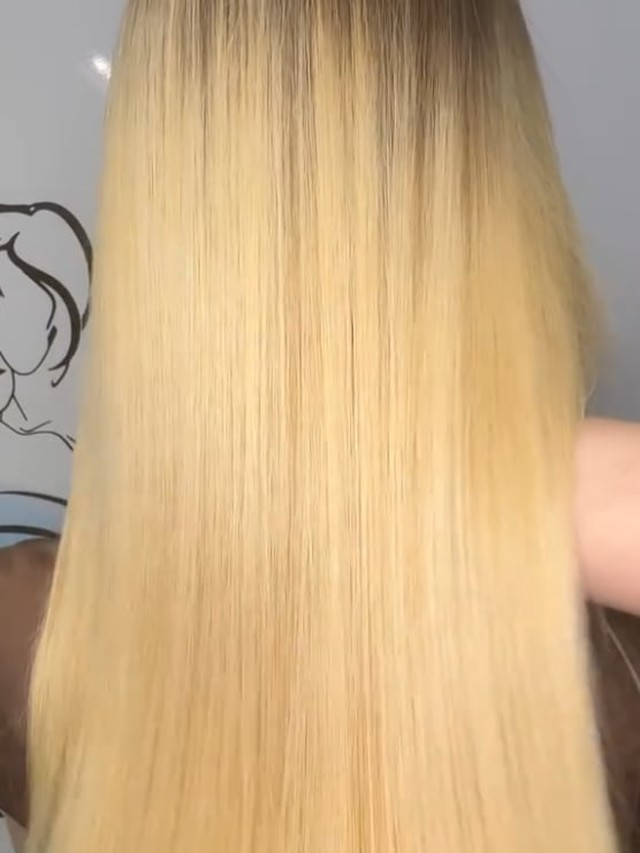
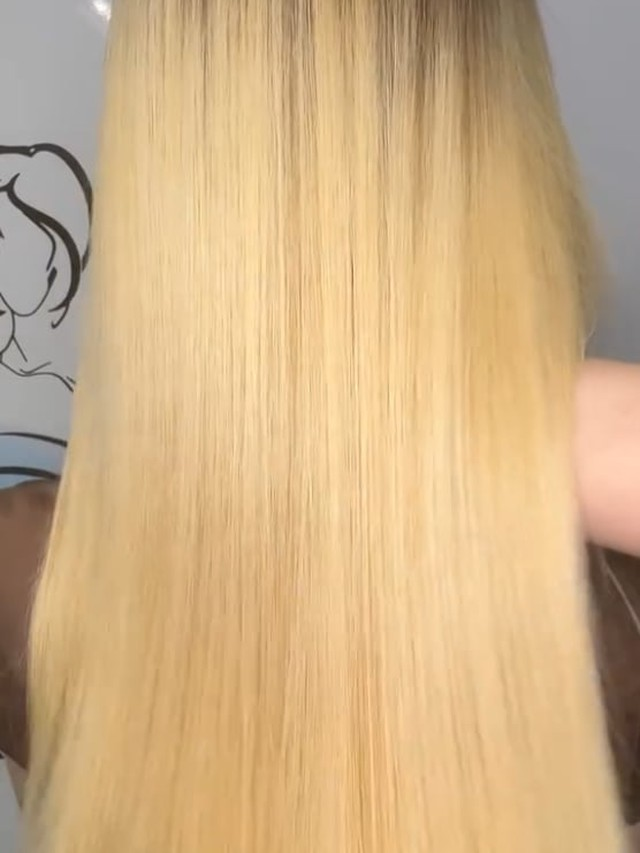
Suwak metamorfozy wraca, ale z dopasowanymi kadrami
Suwak zostaje — poprawiam to, co go psuło. Krzywo wyglądało nie samo
przecieranie, tylko rozjazd między kadrami: jeden pokazywał całą głowę
w salonie, drugi zbliżenie na włosy, więc linia podziału biegła w poprzek
dwóch różnych ujęć.

Zmierzyłem obszar włosów na obu oryginałach i przekadrowałem je tak, żeby
włosy zajmowały te same 90% szerokości ramki i stały na jej środku:
- przed: wycinek 428x571 z okolic środka (włosy miały 385 px na 640),
- po: wycinek 556x741, prawie cała klatka (włosy miały 502 px na 556).
Oba przeskalowane do 640x853. Po obu stronach linii włosy mają teraz tę
samą skalę i biegną tak samo, więc przejście czyta się jak jedno ujęcie.

Wraca też wersja obok siebie do archiwum? Nie — po prostu przywracam
znacznik, style i obsługę suwaka sprzed zmiany, razem z etykietami Przed/Po
i pełnym zakresem 0-100%.

diff --git a/style.css b/style.css
@@ -197,35 +197,73 @@ a{ color:inherit; }
 }
 .hero__tresc{ min-width:0; max-width:52ch; }
 
-/* --- para zdjęć przed / po --- */
-/* Wcześniej było to jedno zdjęcie przecierane suwakiem. Taki suwak zakłada, że
-   oba kadry zrobiono tak samo — a te nie są: jeden pokazuje całą głowę w salonie,
-   drugi zbliżenie na same włosy. Linia podziału biegła w poprzek dwóch różnych
-   ujęć i całość wyglądała krzywo. Zestawienie obok siebie niczego takiego nie
-   obiecuje, więc różnica kadrów przestaje przeszkadzać. */
-.metam{ margin:0; width:auto; }
+/* --- suwak metamorfozy --- */
+/* Kadr prowadzi wysokość, a szerokość dolicza się z proporcji 3:4 — inaczej przy
+   szerokim oknie karta wychodziła poniżej ekranu. */
+.metam{ margin:0; width:auto; --uchwyt:2.6rem; }
 .metam__naglowek{ margin:0 0 .7rem; }
-.metam__para{
-  display:grid; grid-template-columns:1fr 1fr; gap:.5rem;
-  width:min(34rem, 46vw);
-}
-.metam__panel{
-  position:relative; margin:0; overflow:hidden;
-  aspect-ratio:3 / 4; border-radius:3px;
-  border:1px solid var(--line);
-  box-shadow:0 18px 44px rgba(43,33,26,.16);
+.metam__kadr{
+  position:relative; aspect-ratio:3 / 4; overflow:hidden;
+  height:min(66svh, 31rem); width:auto;
+  border-radius:3px; border:1px solid var(--line);
+  box-shadow:0 26px 60px rgba(43,33,26,.20);
   background:var(--paper-2);
+  touch-action:pan-y;   /* pion zostawiamy stronie, poziom bierze suwak */
 }
-.metam__panel img{
-  width:100%; height:100%; object-fit:cover; display:block;
+.metam__kadr img{
+  position:absolute; inset:0; width:100%; height:100%;
+  object-fit:cover; display:block; user-select:none; -webkit-user-drag:none;
 }
-.metam__panel figcaption{
-  position:absolute; top:.6rem; left:.6rem;
-  padding:.3rem .65rem; border-radius:2px;
+/* Warstwa „przed" leży na wierzchu i jest przycinana od prawej. --ciecie ustawia
+   skrypt z pozycji suwaka; bez skryptu zostaje 50% i widać oba zdjęcia. */
+.metam__przed-warstwa{
+  position:absolute; inset:0;
+  clip-path:inset(0 calc(100% - var(--ciecie, 50%)) 0 0);
+}
+.metam__linia{
+  position:absolute; top:0; bottom:0; left:var(--ciecie, 50%);
+  width:2px; margin-left:-1px; background:var(--paper);
+  box-shadow:0 0 0 1px rgba(43,33,26,.25);
+  pointer-events:none;
+}
+/* Etykiety w rogach. „Przed" leży w przycinanej warstwie, więc znika razem ze
+   zdjęciem, które opisuje — po zsunięciu suwaka zostaje samo „Po". Dla czytnika
+   ekranu są zbędne, bo to samo mówią opisy zdjęć. */
+.metam__etykieta{
+  position:absolute; top:.7rem; z-index:1;
+  padding:.32rem .7rem; border-radius:2px;
   background:rgba(43,33,26,.72);
-  color:#FBF7F2; font-size:.6rem; font-weight:600;
+  color:#FBF7F2; font-size:.62rem; font-weight:600;
   letter-spacing:.2em; text-transform:uppercase; line-height:1;
+  pointer-events:none;
 }
+.metam__etykieta--przed{ left:.7rem; }
+.metam__etykieta--po{ right:.7rem; }
+/* Uchwyt rysujemy na kciuku natywnego suwaka — obsługa myszy, dotyku i klawiatury
+   jest wtedy za darmo. Suwak wystaje poza kadr o pół szerokości uchwytu z każdej
+   strony: bez tego środek kciuka nie dojeżdża do krawędzi zdjęcia i na końcach
+   skali zostawał pasek drugiej wersji, którego nie dało się schować. Kadr ma
+   overflow:hidden, więc na krańcach widać po prostu połowę kółka. */
+.metam__suwak{
+  position:absolute; top:0; bottom:0;
+  left:calc(var(--uchwyt) / -2); width:calc(100% + var(--uchwyt));
+  margin:0; padding:0; background:none; border:0;
+  -webkit-appearance:none; appearance:none; cursor:ew-resize;
+}
+.metam__suwak:focus{ outline:none; }
+.metam__suwak:focus-visible{ outline:2px solid var(--gold); outline-offset:3px; }
+.metam__suwak::-webkit-slider-thumb{
+  -webkit-appearance:none; appearance:none;
+  width:var(--uchwyt); height:var(--uchwyt); border-radius:50%; cursor:ew-resize;
+  background:var(--paper); border:1px solid var(--line);
+  box-shadow:0 6px 18px rgba(43,33,26,.28);
+}
+.metam__suwak::-moz-range-thumb{
+  width:var(--uchwyt); height:var(--uchwyt); border-radius:50%; cursor:ew-resize;
+  background:var(--paper); border:1px solid var(--line);
+  box-shadow:0 6px 18px rgba(43,33,26,.28);
+}
+.metam__suwak::-moz-range-track{ background:none; border:0; }
 
 /* ---------- Poznajmy się ---------- */
 .poznajmy{ max-width:var(--maxw); margin-inline:auto; }
@@ -291,7 +329,8 @@ a{ color:inherit; }
 @media (max-width:900px){
   /* Zdjęcie idzie nad tekst — obok siebie zostawałaby na oba za wąska kolumna. */
   .hero__inner{ grid-template-columns:1fr; gap:var(--space-4); justify-items:start; justify-content:start; }
-  .metam__para{ width:min(34rem, 100%); }
+  .metam{ --uchwyt:2rem; }
+  .metam__kadr{ height:min(42svh, 17rem); }
   .hero__nazwa{ width:100%; max-width:260px; }
   .hero__miasto{ font-size:.62rem; letter-spacing:.22em; margin-top:.4rem; }
   .hero__lead{ font-size:.9rem; line-height:1.55; margin-bottom:var(--space-3); }

diff --git a/index.html b/index.html
@@ -12,7 +12,7 @@
 <link rel="preconnect" href="https://fonts.googleapis.com">
 <link rel="preconnect" href="https://fonts.gstatic.com" crossorigin>
 <link href="https://fonts.googleapis.com/css2?family=Inter:wght@300;400;500;600&family=Prata&display=swap" rel="stylesheet">
-<link rel="stylesheet" href="style.css?v=24">
+<link rel="stylesheet" href="style.css?v=25">
 </head>
 <body>
 
@@ -57,25 +57,27 @@
 
 <!-- ============ HERO — metamorfoza przed / po ============ -->
 <section class="hero" id="top">
-  <!-- Metamorfoza jako para zdjęć obok siebie. Suwak z przecieraniem wymagał, żeby
-       oba kadry były zrobione tak samo — a te dwa nie są: jeden pokazuje całą głowę
-       w salonie, drugi zbliżenie na same włosy. Linia podziału wypadała w poprzek
-       dwóch różnych ujęć i całość wyglądała krzywo. Zestawienie obok siebie niczego
-       takiego nie obiecuje i czyta się od razu. -->
+  <!-- Metamorfoza jako suwak. Oba kadry są dopasowane tak, żeby włosy zajmowały
+       90% szerokości ramki i stały na jej środku — bez tego linia podziału biegła
+       w poprzek dwóch różnych ujęć i całość wyglądała krzywo. Warstwa „przed" jest
+       przycinana clip-path, a szerokość cięcia bierze się z pozycji suwaka: to
+       zwykły <input type="range">, więc mysz, dotyk, klawiatura i czytnik ekranu
+       działają bez pisania własnej obsługi. -->
   <div class="hero__inner">
-    <div class="metam">
+    <div class="metam" id="metam">
       <p class="eyebrow metam__naglowek">Metamorfoza</p>
-      <div class="metam__para">
-        <figure class="metam__panel">
-          <img src="media/foto/meta-przed.jpg" width="640" height="853"
+      <div class="metam__kadr">
+        <img class="metam__po" src="media/foto/meta-po.jpg" width="640" height="853"
+             alt="Te same włosy po zabiegach: gładkie, lśniące, równo ułożone na całej długości">
+        <div class="metam__przed-warstwa">
+          <img class="metam__przed" src="media/foto/meta-przed.jpg" width="640" height="853"
                alt="Włosy przed zabiegami: przesuszone, spuszone, z odłamanymi włoskami na całej długości">
-          <figcaption>Przed</figcaption>
-        </figure>
-        <figure class="metam__panel">
-          <img src="media/foto/meta-po.jpg" width="640" height="853"
-               alt="Te same włosy po zabiegach: gładkie, lśniące, równo ułożone na całej długości">
-          <figcaption>Po</figcaption>
-        </figure>
+          <span class="metam__etykieta metam__etykieta--przed" aria-hidden="true">Przed</span>
+        </div>
+        <span class="metam__etykieta metam__etykieta--po" aria-hidden="true">Po</span>
+        <span class="metam__linia" aria-hidden="true"></span>
+        <input class="metam__suwak" id="metamSuwak" type="range" min="0" max="100" value="50"
+               aria-label="Przeciągnij, żeby porównać włosy przed zabiegami i po nich">
       </div>
     </div>
 
@@ -509,6 +511,6 @@
 <!-- ?v= przy arkuszu i skrypcie: bez tego przeglądarka trzyma poprzednią
      wersję z cache i po wgraniu poprawki trzeba odświeżać z Ctrl+Shift+R.
      Numer podbijam przy każdej zmianie w tych dwóch plikach. -->
-<script src="script.js?v=24"></script>
+<script src="script.js?v=25"></script>
 </body>
 </html>

diff --git a/script.js b/script.js
@@ -4,6 +4,24 @@
 
   var reduced = window.matchMedia('(prefers-reduced-motion: reduce)').matches;
 
+  /* --- hero: suwak metamorfozy ---
+     Cała mechanika to jedna zmienna --ciecie: szerokość, do której przycinana jest
+     warstwa „przed". Bierze się wprost z natywnego <input type="range">, więc mysz,
+     dotyk, klawiatura i czytniki ekranu działają bez pisania własnej obsługi.
+     Suwak jest w CSS rozszerzony o szerokość uchwytu, dzięki czemu środek kciuka
+     przejeżdża dokładnie od lewej do prawej krawędzi zdjęcia i wartość można wziąć
+     wprost. Bez JS suwak nadal się rusza, tylko zdjęcie nie reaguje — dlatego
+     domyślne 50% siedzi w CSS, a nie tutaj. */
+  var suwak = document.getElementById('metamSuwak');
+  var metam = document.getElementById('metam');
+  if (suwak && metam) {
+    var ustawCiecie = function () {
+      metam.style.setProperty('--ciecie', suwak.value + '%');
+    };
+    suwak.addEventListener('input', ustawCiecie);
+    ustawCiecie();
+  }
+
   /* --- pasek nawigacji po scrollu --- */
   var nav = document.getElementById('nav');
   function onScroll() {
